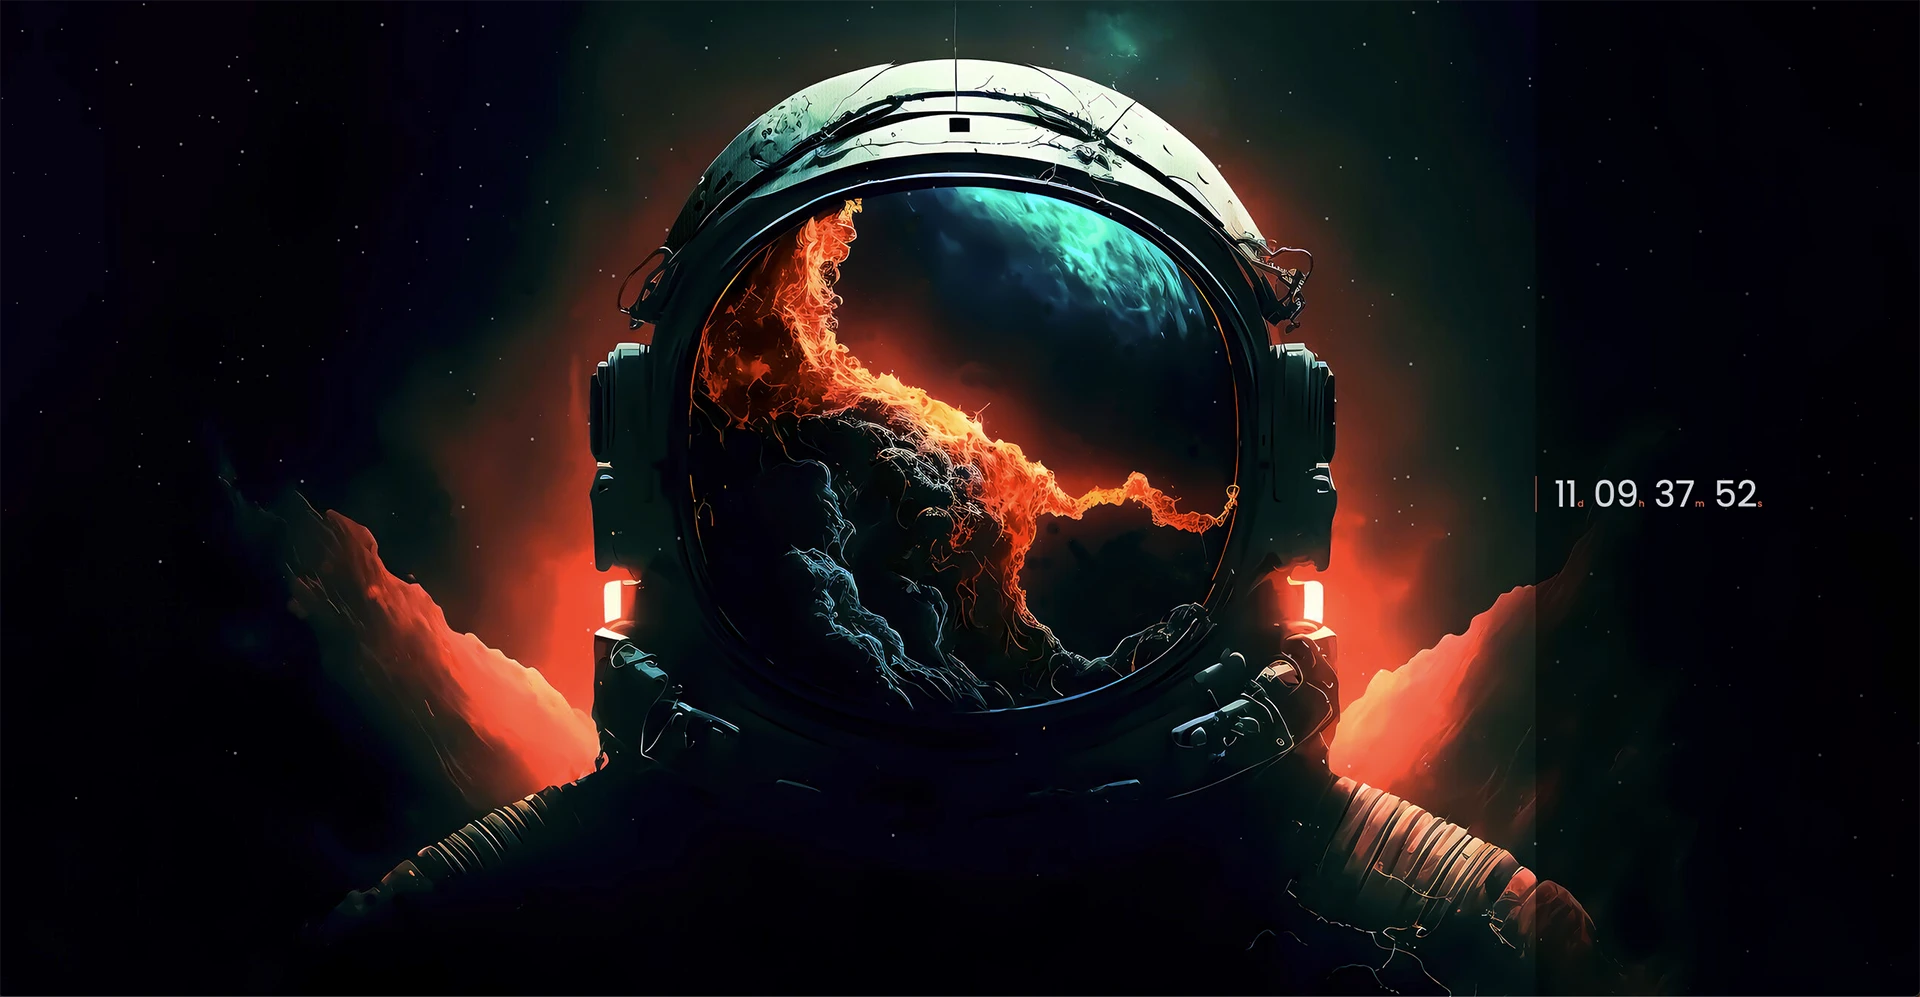
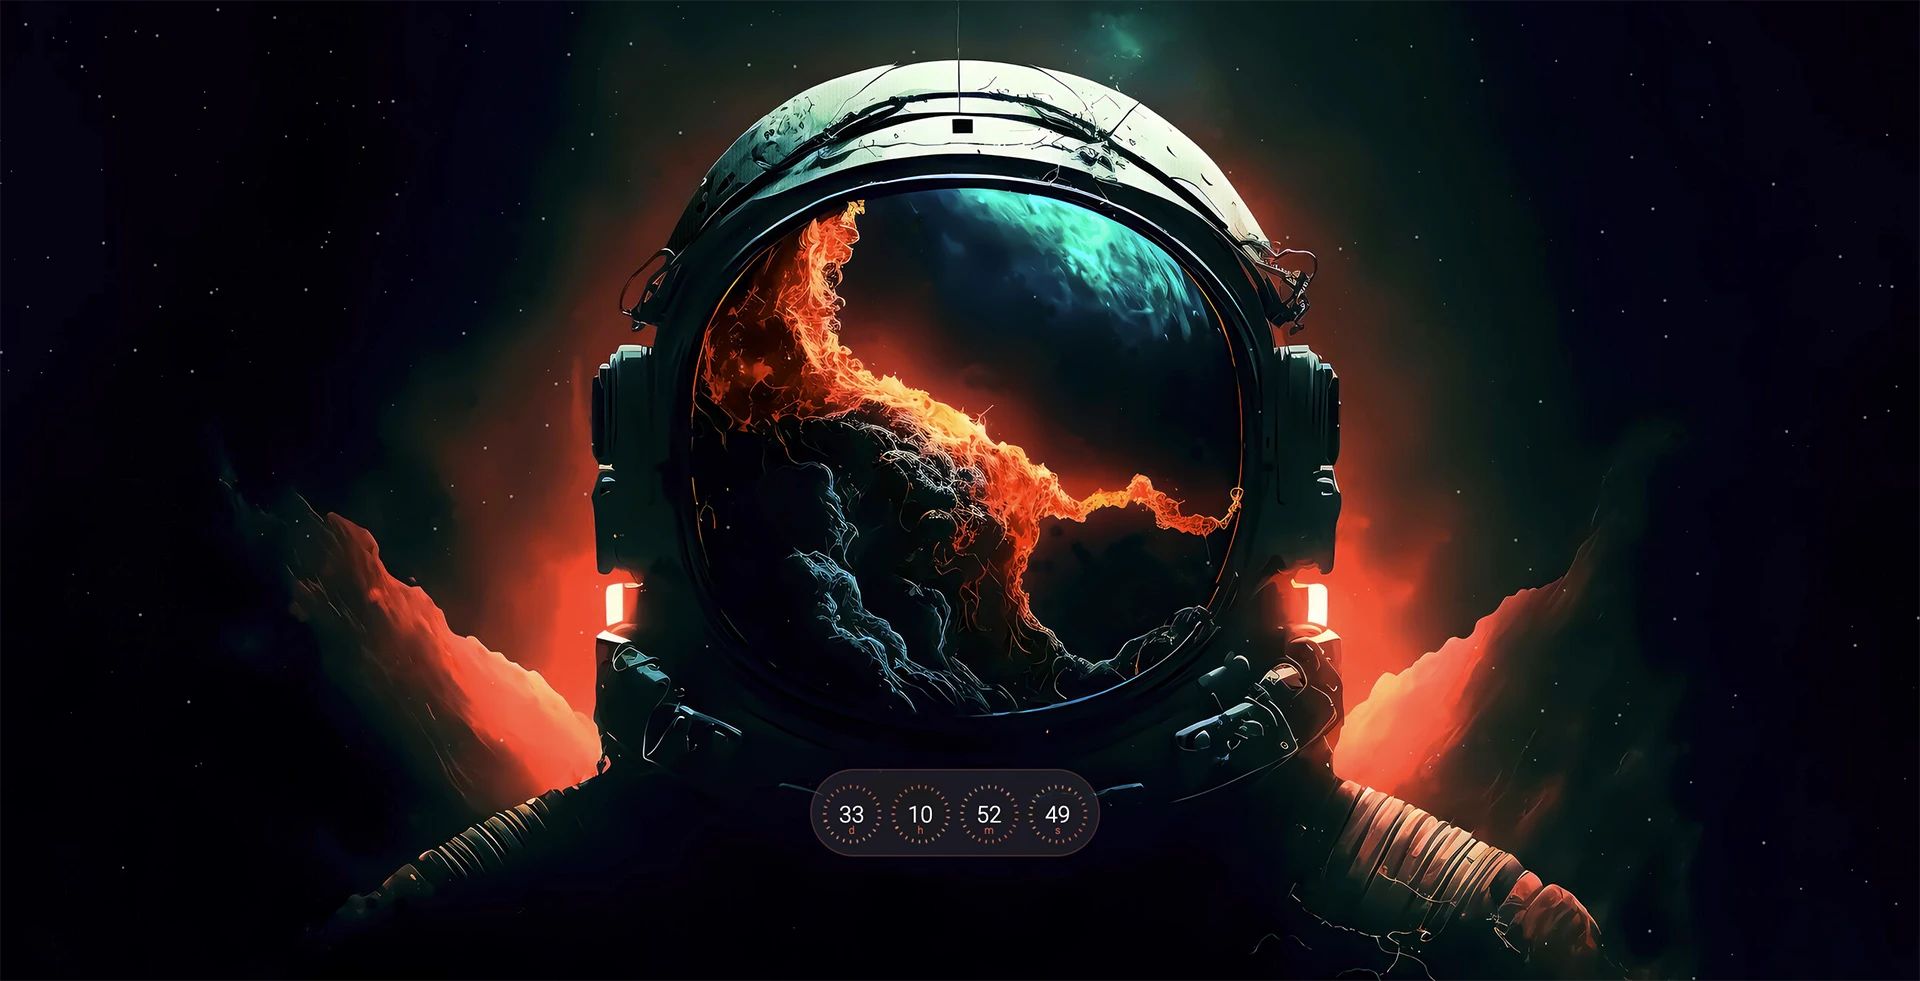
Chg: update urls in readme

diff --git a/pages/index.vue b/pages/index.vue
@@ -1,28 +1,21 @@
 <template>
-  <AppThemesSpace />
+  <AppThemesAstronaut
+    v-if="moebius.theme === MoebiusTheme.ASTRONAUT"
+    :moebius="moebius"
+  />
 
-  <div class="h-full w-[20vw] bg-black/50 z-30">
-    <Transition name="slide-y">
-      <div
-        v-if="showFirstDiv"
-        class="h-screen m-0 p-0 absolute flex flex-col overflow-hidden -ml-[6px]"
-      >
-        <AppCountdown :heating-up="heatingUp" :countdown="d(countdownRef)" />
-      </div>
-    </Transition>
-    <Transition name="slide-y">
-      <div
-        v-if="!showFirstDiv"
-        class="h-screen m-0 p-0 absolute flex flex-col overflow-hidden -ml-[6px]"
-      >
-        <AppCountdown :heating-up="heatingUp" :countdown="d(countdownRef)" />
-      </div>
-    </Transition>
-  </div>
-
-  <div v-if="debug" class="absolute w-96 top-0 left-0">
+  <div v-if="moebius.debug" class="absolute w-96 top-0 left-0">
     <pre
-      >{{ { ...d(countdownRef), ...{ timezone, debug, end } } }}
+      >{{
+        {
+          ...{
+            countdown: d(moebius.countdown),
+            timezone: moebius.timezone,
+            debug: moebius.debug,
+            endDate: moebius.endDate,
+          },
+        }
+      }}
   </pre
     >
   </div>
@@ -30,63 +23,70 @@
 
 <script lang="ts" setup>
 import moment from "moment-timezone";
+import { type Moebius, MoebiusTheme } from "~/types/Moebius";
 
 const route = useRoute();
 const d = await useFormatSecondsToDHMS();
 
 // default setup
-const end = route.query.end?.toString() ?? "2023-11-29 23:59:59";
-const debug = ref<boolean>(route.query.debug === "true");
-const timezone =
-  route.query.timezone?.toString() ??
-  Intl.DateTimeFormat().resolvedOptions().timeZone.toString();
+const moebius = ref<Moebius>({
+  endDate: route.query.endDate?.toString() ?? "2024-01-01 00:00:00",
+  timezone:
+    route.query.timezone?.toString() ??
+    Intl.DateTimeFormat().resolvedOptions().timeZone.toString(),
+  debug: route.query.debug === "true",
+  countdown: -1,
+  heatUp: true,
+  theme: MoebiusTheme.ASTRONAUT,
+});
 
-// toggle div to run animation
-const showFirstDiv = ref<boolean>(false);
+// validate input
+if (!moment.tz.zone(moebius.value.timezone)) {
+  navigateTo("error/timezone?timezone=" + moebius.value.timezone);
+}
 
-if (!moment.tz.zone(timezone)) {
-  navigateTo("error/timezone?timezone=" + timezone);
+if (!moment(new Date(moebius.value.endDate)).isValid()) {
+  navigateTo("error/date?endDate=" + moebius.value.endDate);
 }
 
 // add delay to synchronize the countdown to a full second (cron like)
-const heatingUp = ref<boolean>(true);
-
 // calculate the remaining seconds
-const countdownRef = computed(() => {
+const tickCountdown = () => {
   // triggers the reactivity of this computed
-  // eslint-disable-next-line
-  showFirstDiv.value;
+  const endDate =
+    moment
+      .tz(moebius.value.endDate, moebius.value.timezone)
+      .clone()
+      .local()
+      .unix() * 1000;
 
-  // console.log(moment.tz(end, timezone).clone().local().unix() * 1000);
-
-  const endDate = moment.tz(end, timezone).clone().local().unix() * 1000;
+  if (Number.isNaN(endDate)) {
+    navigateTo("error/date?endDate=" + moebius.value.endDate);
+  }
 
   const now = new Date().getTime();
   const distanceInMs = endDate - now;
-  // add additional second to synchronize with the end of the animation
-  return Math.floor(distanceInMs / 1000) + 1;
-});
+  moebius.value.countdown = Math.floor(distanceInMs / 1000) + 1;
+};
 
 // initiate & synchronize the countdown timer
 const initTimer = () => {
   const now = new Date();
-  const millisecondsUntilNextSecond = 1000 - now.getMilliseconds();
-  // delay countdown to start with a fill second (synchronize)
-  const timeUntilNextSecond =
-    millisecondsUntilNextSecond + 1000 * (1 - (now.getSeconds() % 1));
+  let delayMs = 1000 - now.getMilliseconds();
+  delayMs = delayMs === 1000 ? 0 : delayMs;
 
   setTimeout(() => {
-    heatingUp.value = false;
-    showFirstDiv.value = !showFirstDiv.value;
+    moebius.value.heatUp = false;
+    tickCountdown();
 
     const countdownTimer = setInterval(() => {
-      if (countdownRef.value > 0) {
-        showFirstDiv.value = !showFirstDiv.value;
+      if (moebius.value.countdown > 0) {
+        tickCountdown();
       } else {
         clearInterval(countdownTimer);
       }
     }, 1000);
-  }, timeUntilNextSecond);
+  }, delayMs);
 };
 
 onMounted(() => {

diff --git a/.nuxt/components.d.ts b/.nuxt/components.d.ts
@@ -1,8 +1,8 @@
 // Generated by components discovery
 declare module 'vue' {
   export interface GlobalComponents {
-    'AppCountdown': typeof import("../components/AppCountdown.vue")['default']
-    'AppThemesSpace': typeof import("../components/AppThemes/AppThemesSpace.vue")['default']
+    'AppThemesAstronatutCountdown': typeof import("../components/AppThemes/AppThemesAstronatutCountdown.vue")['default']
+    'AppThemesAstronaut': typeof import("../components/AppThemes/AppThemesAstronaut.vue")['default']
     'NuxtWelcome': typeof import("../node_modules/@nuxt/ui-templates/dist/templates/welcome.vue")['default']
     'NuxtLayout': typeof import("../node_modules/nuxt/dist/app/components/nuxt-layout")['default']
     'NuxtErrorBoundary': typeof import("../node_modules/nuxt/dist/app/components/nuxt-error-boundary")['default']
@@ -23,8 +23,8 @@ declare module 'vue' {
     'Head': typeof import("../node_modules/nuxt/dist/head/runtime/components")['Head']
     'Html': typeof import("../node_modules/nuxt/dist/head/runtime/components")['Html']
     'Body': typeof import("../node_modules/nuxt/dist/head/runtime/components")['Body']
-    'LazyAppCountdown': typeof import("../components/AppCountdown.vue")['default']
-    'LazyAppThemesSpace': typeof import("../components/AppThemes/AppThemesSpace.vue")['default']
+    'LazyAppThemesAstronatutCountdown': typeof import("../components/AppThemes/AppThemesAstronatutCountdown.vue")['default']
+    'LazyAppThemesAstronaut': typeof import("../components/AppThemes/AppThemesAstronaut.vue")['default']
     'LazyNuxtWelcome': typeof import("../node_modules/@nuxt/ui-templates/dist/templates/welcome.vue")['default']
     'LazyNuxtLayout': typeof import("../node_modules/nuxt/dist/app/components/nuxt-layout")['default']
     'LazyNuxtErrorBoundary': typeof import("../node_modules/nuxt/dist/app/components/nuxt-error-boundary")['default']
@@ -48,8 +48,8 @@ declare module 'vue' {
   }
 }
 
-export const AppCountdown: typeof import("../components/AppCountdown.vue")['default']
-export const AppThemesSpace: typeof import("../components/AppThemes/AppThemesSpace.vue")['default']
+export const AppThemesAstronatutCountdown: typeof import("../components/AppThemes/AppThemesAstronatutCountdown.vue")['default']
+export const AppThemesAstronaut: typeof import("../components/AppThemes/AppThemesAstronaut.vue")['default']
 export const NuxtWelcome: typeof import("../node_modules/@nuxt/ui-templates/dist/templates/welcome.vue")['default']
 export const NuxtLayout: typeof import("../node_modules/nuxt/dist/app/components/nuxt-layout")['default']
 export const NuxtErrorBoundary: typeof import("../node_modules/nuxt/dist/app/components/nuxt-error-boundary")['default']
@@ -70,8 +70,8 @@ export const Style: typeof import("../node_modules/nuxt/dist/head/runtime/compon
 export const Head: typeof import("../node_modules/nuxt/dist/head/runtime/components")['Head']
 export const Html: typeof import("../node_modules/nuxt/dist/head/runtime/components")['Html']
 export const Body: typeof import("../node_modules/nuxt/dist/head/runtime/components")['Body']
-export const LazyAppCountdown: typeof import("../components/AppCountdown.vue")['default']
-export const LazyAppThemesSpace: typeof import("../components/AppThemes/AppThemesSpace.vue")['default']
+export const LazyAppThemesAstronatutCountdown: typeof import("../components/AppThemes/AppThemesAstronatutCountdown.vue")['default']
+export const LazyAppThemesAstronaut: typeof import("../components/AppThemes/AppThemesAstronaut.vue")['default']
 export const LazyNuxtWelcome: typeof import("../node_modules/@nuxt/ui-templates/dist/templates/welcome.vue")['default']
 export const LazyNuxtLayout: typeof import("../node_modules/nuxt/dist/app/components/nuxt-layout")['default']
 export const LazyNuxtErrorBoundary: typeof import("../node_modules/nuxt/dist/app/components/nuxt-error-boundary")['default']

diff --git a/composables/useFormatSeconds.ts b/composables/useFormatSeconds.ts
@@ -7,23 +7,23 @@ export type DHMS = {
 };
 
 export const useFormatSecondsToDHMS = () => {
-  const format = (seconds: number): DHMS => {
+  const format = (seconds: number, addLeadingZero = true): DHMS => {
     const days = Math.floor(seconds / (24 * 3600));
     const hours = Math.floor((seconds % (24 * 3600)) / 3600);
     const minutes = Math.floor((seconds % 3600) / 60);
     const remainingSeconds = seconds % 60;
 
     return {
-      days: padZero(days),
-      hours: padZero(hours),
-      minutes: padZero(minutes),
-      seconds: padZero(remainingSeconds),
+      days: padZero(days, addLeadingZero),
+      hours: padZero(hours, addLeadingZero),
+      minutes: padZero(minutes, addLeadingZero),
+      seconds: padZero(remainingSeconds, addLeadingZero),
       raw: seconds,
     };
   };
 
-  const padZero = (num: number): string => {
-    return num < 10 ? `0${num}` : `${num}`;
+  const padZero = (num: number, addLeadingZero: boolean): string => {
+    return addLeadingZero && num < 10 ? `0${num}` : `${num}`;
   };
 
   return format;

diff --git a/pages/error/timezone.vue b/pages/error/timezone.vue
@@ -4,7 +4,9 @@
     <span
       v-if="route.query['timezone'] && route.query['timezone'] !== ''"
       class="-ml-1"
-      >: <span class="text-red-500">{{ route.query["timezone"] }}</span></span
+      >:
+      <span class="text-red-500">{{ route.query["timezone"] }}</span> (expected:
+      valid IANA Timezone)</span
     >
   </div>
 </template>

diff --git a/layouts/default.vue b/layouts/default.vue
@@ -1,6 +1,6 @@
 <template>
   <div class="w-screen h-screen bg-gray-900 text-gray-300">
-    <div class="w-screen h-screen overflow-hidden flex flex-row font-[Poppins]">
+    <div class="w-screen h-screen overflow-hidden flex flex-row font-[Roboto]">
       <NuxtPage />
     </div>
   </div>

diff --git a/tailwind.config.js b/tailwind.config.js
@@ -11,7 +11,14 @@ export default {
   ],
   theme: {
     fontFamily: {
-      body: "Poppins",
+      body: "Roboto Mono",
+    },
+    screens: {
+      sm: "1px",
+      md: "768px",
+      lg: "1024px",
+      xl: "1280px",
+      "2xl": "1536px",
     },
     extend: {
       colors: {

diff --git a/nuxt.config.ts b/nuxt.config.ts
@@ -27,7 +27,7 @@ export default defineNuxtConfig({
   },
   googleFonts: {
     families: {
-      Poppins: {
+      "Roboto": {
         wght: [100, 200, 300, 400, 500, 600, 700, 800, 900],
       },
       Inter: {

diff --git a/README.md b/README.md
@@ -2,7 +2,7 @@
 
 A synchronized animation first countdown timer with IANA timezone support that might count to infinity and beyond.
 
-![img](https://moebius.sev.wtf/img/theme_astronaut.webp)
+![img](https://47235-3000.2.codesphere.com/img/theme_astronaut.webp)
 
 ## *WIP*
 
@@ -10,11 +10,11 @@ This repository is a work in progress
 
 ## Demo
 
-You can find a live demo here: [https://47235-3000.2.codesphere.com](https://47235-3000.2.codesphere.com) (host on [Codesphere](https://codesphere.com)).
+You can find a live demo here: [https://47235-3000.2.codesphere.com](https://47235-3000.2.codesphere.com) (hosted on [Codesphere](https://codesphere.com)).
 
 ## Framework
 
-This countdown is written in [typescript](https://www.typescriptlang.org/) using [Nuxt3](https://nuxt.com/) and [Tailwind](https://tailwindcss.com/).
+moebius is written in [typescript](https://www.typescriptlang.org/) using [Nuxt3](https://nuxt.com/) and [Tailwind](https://tailwindcss.com/).
 
 ## Deployment
 
@@ -22,7 +22,7 @@ moebius is generated as SPA (static site) and does neither rely on a database no
 
 ## Features
 
-- ~Theme support~
+- Theme support
 - Configurable
 - Synchronized
   - Does not depend on correct system clock
@@ -31,21 +31,15 @@ moebius is generated as SPA (static site) and does neither rely on a database no
   - Countdown will wordlwide end at the same moment, no matter the timezone a user has
 
 ## TODO
-
-- Make responsive
-- Add theme support
-  - Add more themes
-- Add configuration wizard
-  - Add option to choose a theme instead of using a random one
 - Add optional callback URL on finish
 - Refactor default values 
-  - Defaults to `2023-11-28 23:59:59` as it marks the end of the [Codesphere countdown challenge](https://codesphere.com/challenge).
+  - Defaults to `2024-01-01 00:00:00`
 
 ## Configuration
 
-The countdown can be configured via query string or by using the wizard (`/wizard`). \
+moebius can be configured using query strings. \
 The following query strings are available:
-- end: DateTime = the date time to countdown towards in a [supported](https://developer.mozilla.org/en-US/docs/Web/JavaScript/Reference/Global_Objects/Date?retiredLocale=de#date_time_string_format) format, defaults to `2023-11-28 23:59:59`
+- endDate: DateTime = the date time to countdown towards in a [supported](https://developer.mozilla.org/en-US/docs/Web/JavaScript/Reference/Global_Objects/Date?retiredLocale=de#date_time_string_format) format, defaults to `2024-01-01 00:00:00`
 - debug: Boolean = show debug information, defaults to `false`
 - timezone: String = any IANA timezone, defaults to `local timezone` of the client
   - Defines the timezone of the given date
@@ -57,7 +51,7 @@ It is therewith independent from the local systems time.
 
 ### Heat up
 
-The timer sometimes starts a bit delayed as it is synchronized to start at an exact second like a unix cron would do.
+The timer may starts delayed (heat-up) as it is synchronizing to the next exact second like a unix cron would do.
 
 ## Themes
 
@@ -70,5 +64,3 @@ The Astronaut has been downloaded from [uhdpaper.com](https://www.uhdpaper.com/2
 It has been slightly modified by removing the Stars in favor of the self-animated 'space-dust'.
 
 The head of the Astronaut is masked and doubled to give the Theme more depth. This way, the dust randomly moves in before and behind the head itself.
-
-Hovering the Astronaut increases the saturation using a transition.
